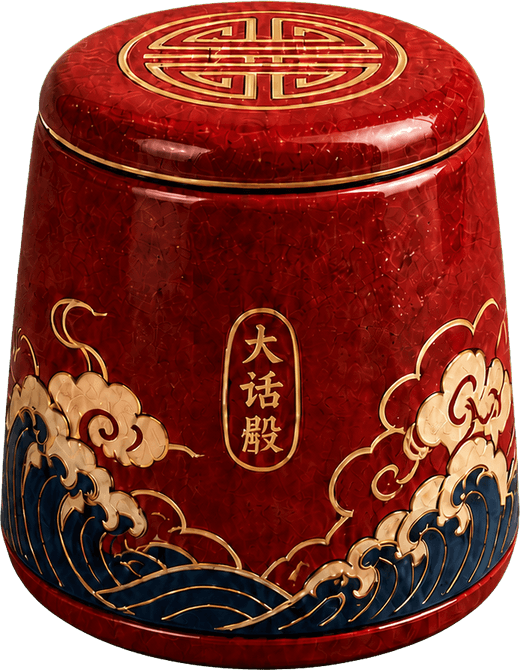
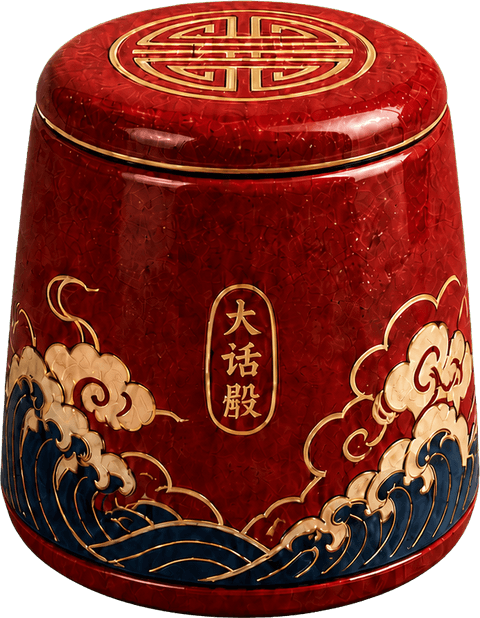
chore: optimize mini program release assets

diff --git a/scripts/prepare-runtime-assets.js b/scripts/prepare-runtime-assets.js
@@ -6,7 +6,7 @@ const root = path.resolve(__dirname, '..')
 const outputDir = path.join(root, 'assets', 'images')
 
 const transparentAssets = [
-  ['设计稿/分层素材/骰盅.png', 'cup-closed.png', 520],
+  ['设计稿/分层素材/骰盅.png', 'cup-closed.png', 480],
   ['设计稿/分层素材/骰盘.png', 'tray.png', 650],
   ['设计稿/分层补充素材-v2/open-cup-alpha.png', 'cup-open.png', 440],
   ['设计稿/分层补充素材-v2/floor-medallion-alpha.png', 'medallion.png', 760],
